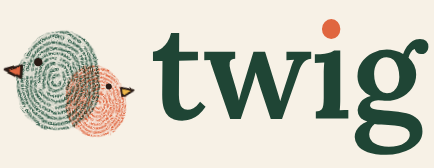
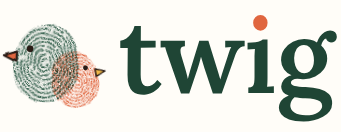
Sign-in emails: a letter, not the sign-in screen's picture again
Chosen on the design canvas from three directions. Both emails are now a
sheet of paper with a thumbprint-bird postage stamp: "Dear new bird,"
for a new person and "Hello again," for someone coming back, each with
the code in a dashed box and signed by three birds, "all of us at Twig".

The pictures are the stamp, the signature birds and the logo; the earlier
design's pictures are removed.

Claude-Session: https://claude.ai/code/session_01JQn7rJqUjhLX4buc4Gi3pe

diff --git a/emails/src/welcome.html b/emails/src/welcome.html
@@ -1,55 +1,8 @@
-<!-- subject: {{ .Token }} is your Twig code. Your bird is waiting -->
-<!-- preheader: Type it into the app and you're in. Then: make your bird, and invite the person you want to be closer to. -->
-                <img src="%IMAGES%/hero.png" width="520" alt="Four thumbprint birds and an egg on a twig. Above them: Mom's check-in, 'Tomatoes came in!', a photo from Sam, a voice note from Dad, and a question from Nana." style="width: 100%; height: auto; border-radius: 28px 28px 0 0;" />
-                <table role="presentation" width="100%" cellpadding="0" cellspacing="0">
-                  <tr>
-                    <td class="pad" align="center" style="padding: 26px 34px 18px;">
-                      <h1 style="margin: 0; font-size: 28px; line-height: 34px; font-weight: 700; letter-spacing: -0.2px; color: #1F4535;">You're almost on the twig</h1>
-                      <p style="margin: 10px 0 0; font-size: 16px; line-height: 24px; color: #4A5D54;">Type this code into the app and you're in. No password, now or ever.</p>
-                    </td>
-                  </tr>
-                </table>
+<!-- subject: {{ .Token }} is your Twig code. Welcome, new bird -->
+<!-- preheader: A note from all of us, and your key to the door. -->
+<!-- greeting: Dear new bird, -->
+<!-- closing: See you on the twig, -->
+                <p style="margin: 12px 0 0; font-size: 16px; line-height: 25px; color: #4A5D54;">You're one small step from the twig, and we're very glad you came. Here is your key to the door:</p>
 %CODE%
-                <table role="presentation" width="100%" cellpadding="0" cellspacing="0">
-                  <tr>
-                    <td class="pad" style="padding: 34px 34px 6px;">
-                      <h2 style="margin: 0; font-size: 20px; line-height: 26px; font-weight: 700; color: #1F4535;">What you're about to start</h2>
-                      <p style="margin: 8px 0 0; font-size: 16px; line-height: 24px; color: #4A5D54;">Twig is a small, private place for a parent and their grown-up kid. It is not a group chat and not a feed. It is the two of you, a little closer every day.</p>
-                    </td>
-                  </tr>
-                  <tr>
-                    <td class="pad" style="padding: 12px 34px 0;">
-                      <table role="presentation" width="100%" cellpadding="0" cellspacing="0">
-                        <tr>
-                          <td width="64" valign="top" style="padding: 12px 0;"><img src="%IMAGES%/icon-checkin.png" width="52" height="52" alt="" style="width: 52px; height: 52px;" /></td>
-                          <td valign="top" style="padding: 12px 0; font-size: 16px; line-height: 23px; color: #4A5D54;"><strong style="color: #1F4535; font-weight: 700;">A few words a day.</strong><br />A quick check-in, so you know how they really are. Not just "fine".</td>
-                        </tr>
-                        <tr>
-                          <td width="64" valign="top" style="padding: 12px 0;"><img src="%IMAGES%/icon-photo.png" width="52" height="52" alt="" style="width: 52px; height: 52px;" /></td>
-                          <td valign="top" style="padding: 12px 0; font-size: 16px; line-height: 23px; color: #4A5D54;"><strong style="color: #1F4535; font-weight: 700;">Small moments, as they happen.</strong><br />The tomatoes came in. The first snow. A voice note from the car.</td>
-                        </tr>
-                        <tr>
-                          <td width="64" valign="top" style="padding: 12px 0;"><img src="%IMAGES%/icon-discover.png" width="52" height="52" alt="" style="width: 52px; height: 52px;" /></td>
-                          <td valign="top" style="padding: 12px 0; font-size: 16px; line-height: 23px; color: #4A5D54;"><strong style="color: #1F4535; font-weight: 700;">One question a week.</strong><br />You both answer, then open each other's answers together. The things you never thought to ask.</td>
-                        </tr>
-                      </table>
-                    </td>
-                  </tr>
-                  <tr>
-                    <td class="pad" style="padding: 22px 34px 0;">
-                      <table role="presentation" width="100%" cellpadding="0" cellspacing="0" style="background: #FFFDF8; border: 2px solid #F2EBDD; border-radius: 22px;">
-                        <tr>
-                          <td width="104" valign="middle" style="padding: 10px 0 10px 10px;"><img src="%IMAGES%/hatched.png" width="94" height="105" alt="A chick made from a thumbprint, hatching from an egg." style="width: 94px; height: 105px;" /></td>
-                          <td valign="middle" style="padding: 16px 18px 16px 8px; font-size: 16px; line-height: 23px; color: #4A5D54;"><strong style="color: #1F4535; font-weight: 700;">Your bird is waiting to hatch.</strong><br />Everyone on Twig is a thumbprint bird, and no two are alike. You'll make yours first, then invite your person to perch next to you.</td>
-                        </tr>
-                      </table>
-                    </td>
-                  </tr>
-                  <tr>
-                    <td class="pad" align="center" style="padding: 30px 34px 34px;">
-                      <img src="%IMAGES%/mark.png" width="56" height="56" alt="" style="width: 56px; height: 56px; margin: 0 auto;" />
-                      <p style="margin: 8px 0 0; font-size: 18px; line-height: 26px; font-weight: 600; color: #1F4535;">Closer, twig by twig.</p>
-                      <p style="margin: 2px 0 0; font-size: 15px; line-height: 22px; color: #4A5D54;">See you in there. From all of us at Twig.</p>
-                    </td>
-                  </tr>
-                </table>
+                <p style="margin: 0; font-size: 16px; line-height: 25px; color: #4A5D54;">Twig is where a parent and their grown-up kid stay close without it feeling like homework. A few words about your day. A photo of the tomatoes. One good question a week.</p>
+                <p style="margin: 12px 0 0; font-size: 16px; line-height: 25px; color: #4A5D54;">Once you're in, you'll make your own thumbprint bird. Then you invite your person, and they land right next to you.</p>

diff --git a/emails/src/_frame.html b/emails/src/_frame.html
@@ -22,20 +22,35 @@
     <div style="display: none; max-height: 0; overflow: hidden; opacity: 0; color: #F7F1E6;">%PREHEADER%</div>
     <table role="presentation" width="100%" cellpadding="0" cellspacing="0" style="background: #F7F1E6;">
       <tr>
-        <td align="center" style="padding: 28px 14px 36px;">
-          <table role="presentation" width="100%" cellpadding="0" cellspacing="0" style="max-width: 520px;">
+        <td align="center" style="padding: 22px 14px 36px;">
+          <table role="presentation" width="100%" cellpadding="0" cellspacing="0" style="max-width: 500px;">
             <tr>
-              <td align="center" style="padding: 0 0 20px;">
-                <img src="%IMAGES%/lockup.png" width="124" height="48" alt="Twig" style="width: 124px; height: 48px;" />
-              </td>
-            </tr>
-            <tr>
-              <td style="background: #FFFDF8; border-radius: 28px; overflow: hidden; font-family: 'Figtree', -apple-system, 'Segoe UI', Roboto, Helvetica, Arial, sans-serif; color: #1F4535;">
+              <!-- the letter: a sheet of paper -->
+              <td class="pad" style="background: #FFFDF8; border: 1px solid #EADFCB; border-radius: 10px; box-shadow: 0 10px 24px rgba(60, 40, 20, 0.1); padding: 20px 28px 28px; font-family: 'Figtree', -apple-system, 'Segoe UI', Roboto, Helvetica, Arial, sans-serif; color: #1F4535;">
+                <table role="presentation" width="100%" cellpadding="0" cellspacing="0">
+                  <tr>
+                    <td valign="top" style="padding-top: 4px;">
+                      <img src="%IMAGES%/lockup.png" width="98" height="38" alt="Twig" style="width: 98px; height: 38px;" />
+                    </td>
+                    <td valign="top" align="right" width="140">
+                      <img src="%IMAGES%/stamp.png" width="140" height="108" alt="A postage stamp with a thumbprint bird on it, postmarked Twig." style="width: 140px; height: 108px;" />
+                    </td>
+                  </tr>
+                </table>
+                <!-- on its own line so it never wraps beside the stamp on a phone -->
+                <p style="margin: 0; font-family: Georgia, 'Times New Roman', serif; font-style: italic; font-size: 26px; line-height: 34px; color: #1F4535;">%GREETING%</p>
 %BODY%
+                <p style="margin: 22px 0 4px; font-family: Georgia, 'Times New Roman', serif; font-style: italic; font-size: 22px; line-height: 30px; color: #1F4535;">%CLOSING%</p>
+                <table role="presentation" cellpadding="0" cellspacing="0">
+                  <tr>
+                    <td valign="bottom"><img src="%IMAGES%/sign.png" width="140" height="57" alt="Three thumbprint birds: one with a flower, one with a hat, one with headphones." style="width: 140px; height: 57px;" /></td>
+                    <td valign="bottom" style="padding: 0 0 12px 10px; font-size: 14px; line-height: 20px; color: #4A5D54;">all of us at Twig</td>
+                  </tr>
+                </table>
               </td>
             </tr>
             <tr>
-              <td class="pad" align="center" style="padding: 22px 30px 0; font-family: 'Figtree', -apple-system, 'Segoe UI', Roboto, Helvetica, Arial, sans-serif; font-size: 13px; line-height: 19px; color: #4A5D54;">
+              <td align="center" style="padding: 20px 22px 0; font-family: 'Figtree', -apple-system, 'Segoe UI', Roboto, Helvetica, Arial, sans-serif; font-size: 13px; line-height: 19px; color: #4A5D54;">
                 You got this because someone typed {{ .Email }} into the Twig app. If that wasn't you, ignore this email and nothing happens.
               </td>
             </tr>

diff --git a/emails/src/sign-in.html b/emails/src/sign-in.html
@@ -1,20 +1,7 @@
 <!-- subject: {{ .Token }} is your Twig code -->
-<!-- preheader: Welcome back. Type it into the app and you're in. -->
-                <table role="presentation" width="100%" cellpadding="0" cellspacing="0">
-                  <tr>
-                    <td class="pad" align="center" style="padding: 32px 34px 18px;">
-                      <img src="%IMAGES%/mark.png" width="72" height="72" alt="" style="width: 72px; height: 72px; margin: 0 auto;" />
-                      <h1 style="margin: 12px 0 0; font-size: 28px; line-height: 34px; font-weight: 700; letter-spacing: -0.2px; color: #1F4535;">Welcome back</h1>
-                      <p style="margin: 10px 0 0; font-size: 16px; line-height: 24px; color: #4A5D54;">Type this code into the app and you're in.</p>
-                    </td>
-                  </tr>
-                </table>
+<!-- preheader: Welcome back. Here is your key to the door. -->
+<!-- greeting: Hello again, -->
+<!-- closing: See you in there, -->
+                <p style="margin: 12px 0 0; font-size: 16px; line-height: 25px; color: #4A5D54;">Good to have you back. Here is your key to the door:</p>
 %CODE%
-                <table role="presentation" width="100%" cellpadding="0" cellspacing="0">
-                  <tr>
-                    <td class="pad" align="center" style="padding: 26px 34px 32px;">
-                      <p style="margin: 0; font-size: 18px; line-height: 26px; font-weight: 600; color: #1F4535;">Closer, twig by twig.</p>
-                      <p style="margin: 2px 0 0; font-size: 15px; line-height: 22px; color: #4A5D54;">Your people are on the twig. From all of us at Twig.</p>
-                    </td>
-                  </tr>
-                </table>
+                <p style="margin: 0; font-size: 16px; line-height: 25px; color: #4A5D54;">Your people are on the twig.</p>

diff --git a/emails/src/_code.html b/emails/src/_code.html
@@ -1,15 +1,9 @@
-                <table role="presentation" width="100%" cellpadding="0" cellspacing="0">
+                <table role="presentation" width="100%" cellpadding="0" cellspacing="0" style="margin: 16px 0 18px;">
                   <tr>
-                    <td class="pad" style="padding: 0 34px;">
-                      <table role="presentation" width="100%" cellpadding="0" cellspacing="0">
-                        <tr>
-                          <td align="center" style="background: #F2EBDD; border-radius: 20px; padding: 20px 12px 16px;">
-                            <div style="font-size: 12px; line-height: 16px; font-weight: 700; letter-spacing: 1px; text-transform: uppercase; color: #4A5D54;">Your code</div>
-                            <div class="code" style="font-size: 40px; line-height: 50px; font-weight: 700; letter-spacing: 8px; color: #1F4535; padding: 4px 0 2px 8px;">{{ .Token }}</div>
-                            <div style="font-size: 14px; line-height: 20px; color: #4A5D54;">Works once, for the next 10 minutes.</div>
-                          </td>
-                        </tr>
-                      </table>
+                    <td align="center" style="border: 2px dashed #1F4535; border-radius: 20px; padding: 18px 10px 14px;">
+                      <div style="font-size: 12px; line-height: 16px; font-weight: 700; letter-spacing: 1px; text-transform: uppercase; color: #4A5D54;">Your code</div>
+                      <div class="code" style="font-size: 40px; line-height: 50px; font-weight: 700; letter-spacing: 8px; color: #1F4535; padding: 2px 0 0 8px;">{{ .Token }}</div>
+                      <div style="font-size: 14px; line-height: 20px; color: #4A5D54;">Works once, for the next 10 minutes.</div>
                     </td>
                   </tr>
                 </table>
